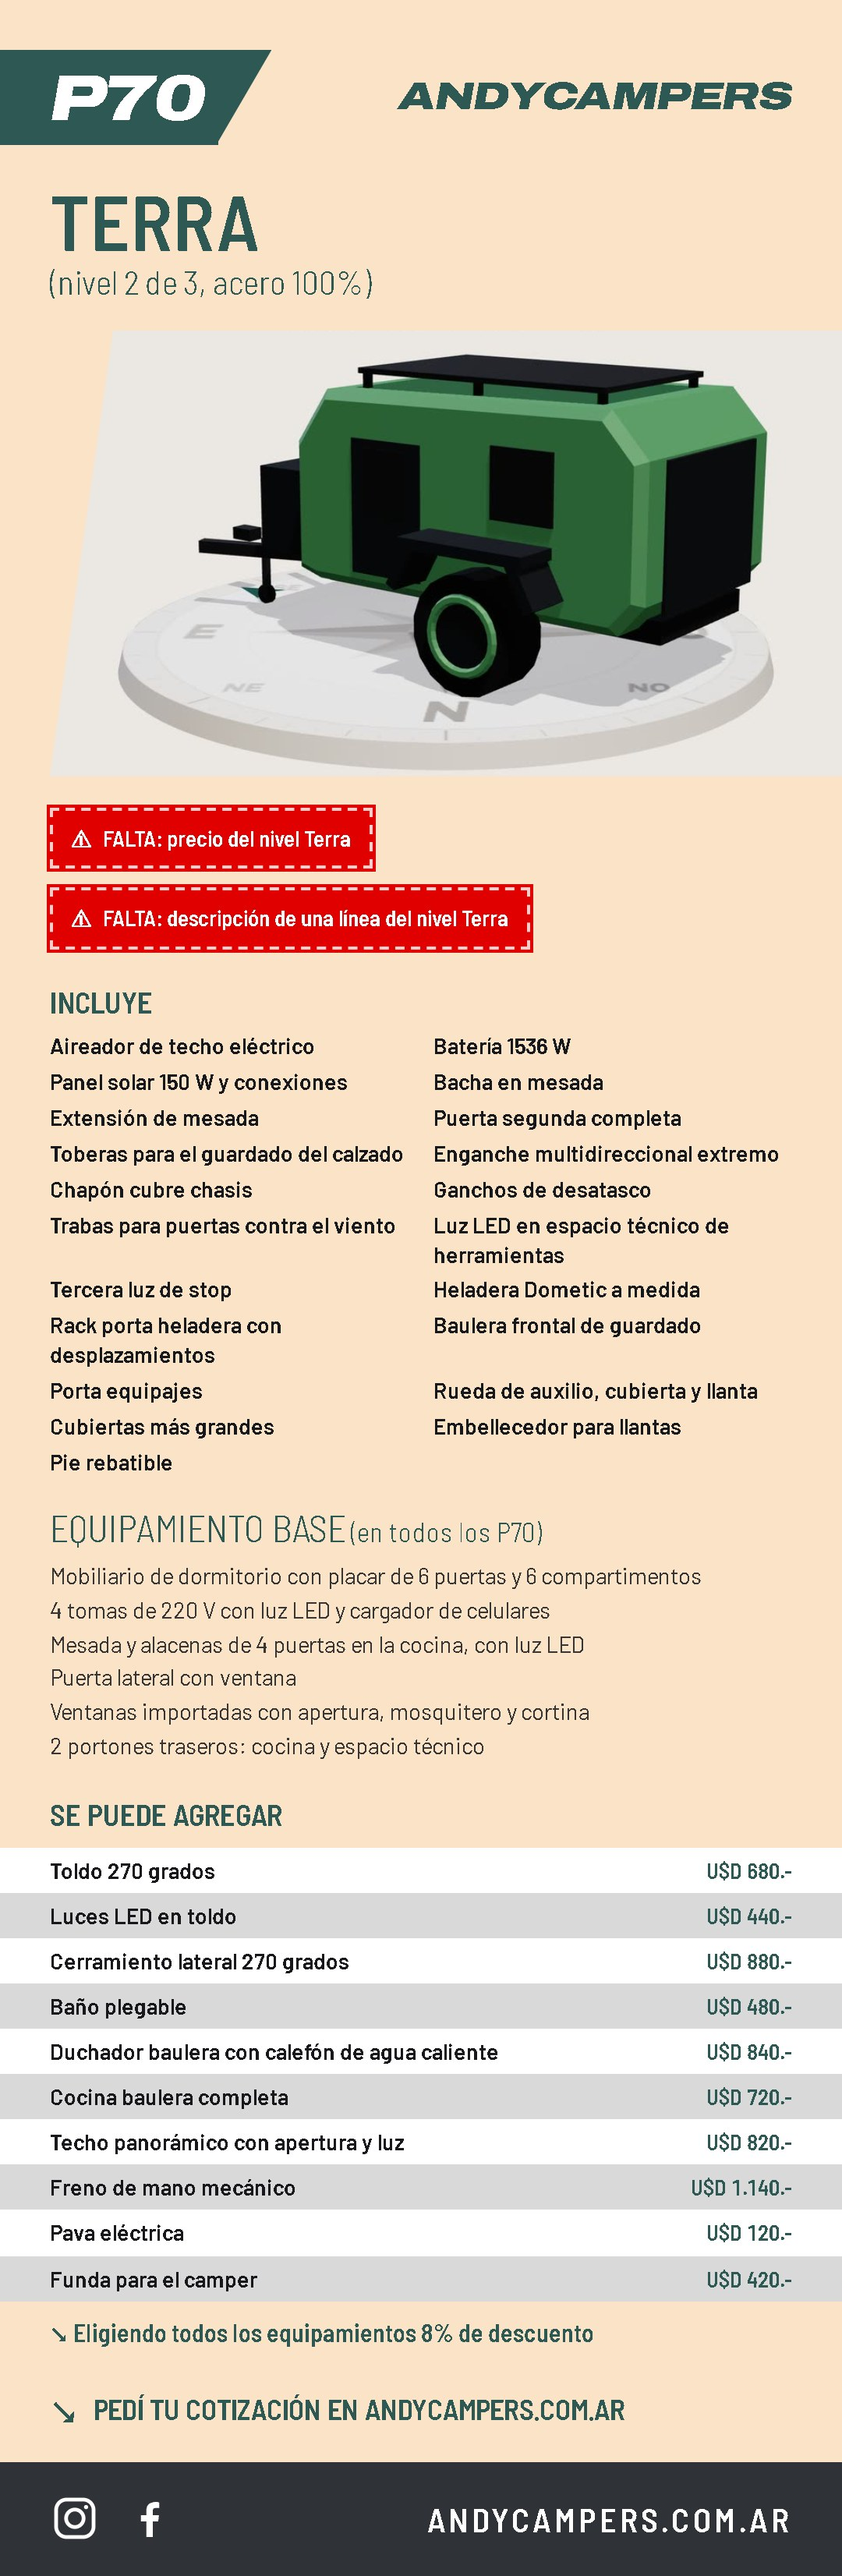
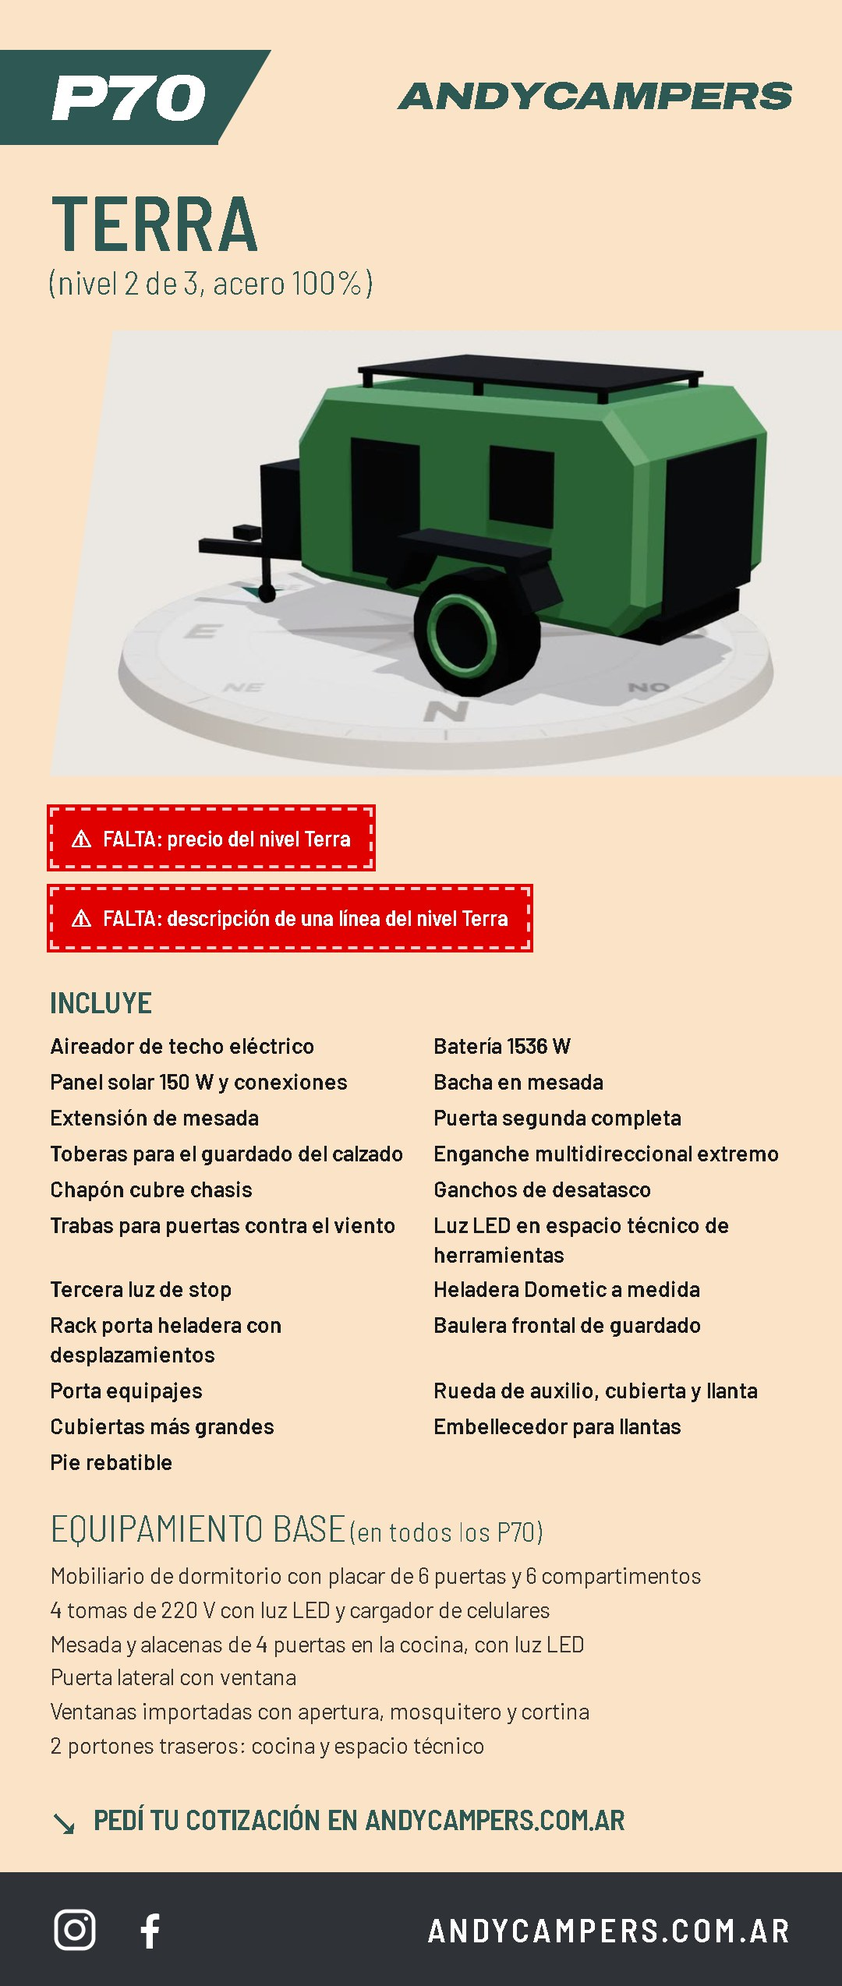
Cada equipamiento muestra solo lo que lleva, sin opcionales
Lo que no está tachado en los flyers marcados es lo que lleva cada nivel,
no son opcionales: Rumbo 13 ítems, Terra suma 8 y Cima lleva los 31.
Se sacan los precios por ítem, "Se puede agregar" y el 8% de descuento
del selector, los catálogos y las preguntas frecuentes.

diff --git a/config/p70.ts b/config/p70.ts
@@ -41,7 +41,7 @@ export interface Equipamiento {
   stats: Stats | null;
 }
 
-/** Los 3 niveles, de más base a más completo. Qué trae cada uno sale de `opcionales`. */
+/** Los 3 niveles, de más base a más completo. Qué trae cada uno sale de `itemsEquipamiento`. */
 export const equipamientos: Equipamiento[] = [
   {
     n: 1,
@@ -69,66 +69,62 @@ export const equipamientos: Equipamiento[] = [
   },
 ];
 
-/* ───────────────────────── Opcionales (flyers marcados por Andrés) ───────────────────────── */
+/* ───────────────────────── Qué lleva cada nivel (flyers marcados por Andrés) ───────────────────────── */
 
-export interface Opcional {
+export interface ItemEquipamiento {
   nombre: string;
   detalle?: string;
-  /** Precio en USD si no viene con el nivel elegido. */
-  precio: number;
-  /** Desde qué nivel viene incluido. En los niveles anteriores es un opcional con precio. */
+  /** Desde qué nivel viene: Rumbo (1), Terra (2) o solo Cima (3). */
   desde: 1 | 2 | 3;
 }
 
 /**
- * Los flyers de Rumbo y Terra tienen tachado lo que ese nivel NO trae (audio de
- * Andrés del 30/10) y Cima trae todo. Los textos con `desde: 3` están tapados
- * por la marca en los dos flyers: se confirman con el flyer limpio.
+ * Andrés marcó los flyers de opcionales con el nombre de cada nivel: lo que no
+ * está tachado es lo que ese nivel lleva (no son opcionales, no se venden aparte
+ * ni tienen precio). Cima lleva todo lo de los dos flyers. Los textos con
+ * `desde: 3` están tapados por la marca en los dos flyers: se confirman con el
+ * flyer limpio.
  */
-export const opcionales: Opcional[] = [
-  { nombre: "Aireador de techo eléctrico", detalle: "Extractor ventilador, muy recomendable. No es aire acondicionado pero es suficiente.", precio: 440, desde: 1 },
-  { nombre: "Batería 1536 W", detalle: "Con picos de 1800 W", precio: 1960, desde: 1 },
-  { nombre: "Panel solar 150 W y conexiones", detalle: "Recupera la batería en 2 horas del uso nocturno", precio: 620, desde: 1 },
-  { nombre: "Bacha en mesada", detalle: "Tanque de 100 litros, bomba de agua automática y entrada. Conexiones y chapones protectores.", precio: 730, desde: 1 },
-  { nombre: "Extensión de mesada", detalle: "Adaptador para usar el portón del espacio técnico como ampliación de la mesada de cocina", precio: 83, desde: 1 },
-  { nombre: "Puerta segunda completa", precio: 1120, desde: 1 },
-  { nombre: "Toberas para el guardado del calzado", precio: 540, desde: 1 },
-  { nombre: "Enganche multidireccional extremo", detalle: "Mayor seguridad", precio: 660, desde: 1 },
-  { nombre: "Chapón cubre chasis", precio: 235, desde: 1 },
-  { nombre: "Ganchos de desatasco", detalle: "x2 unidades", precio: 55, desde: 1 },
-  { nombre: "Trabas para puertas contra el viento", detalle: "x2 unidades", precio: 64, desde: 1 },
-  { nombre: "Luz LED en espacio técnico de herramientas", precio: 44, desde: 1 },
-  { nombre: "Tercera luz de stop", precio: 82, desde: 1 },
+export const itemsEquipamiento: ItemEquipamiento[] = [
+  { nombre: "Aireador de techo eléctrico", detalle: "Extractor ventilador, muy recomendable. No es aire acondicionado pero es suficiente.", desde: 1 },
+  { nombre: "Batería 1536 W", detalle: "Con picos de 1800 W", desde: 1 },
+  { nombre: "Panel solar 150 W y conexiones", detalle: "Recupera la batería en 2 horas del uso nocturno", desde: 1 },
+  { nombre: "Bacha en mesada", detalle: "Tanque de 100 litros, bomba de agua automática y entrada. Conexiones y chapones protectores.", desde: 1 },
+  { nombre: "Extensión de mesada", detalle: "Adaptador para usar el portón del espacio técnico como ampliación de la mesada de cocina", desde: 1 },
+  { nombre: "Puerta segunda completa", desde: 1 },
+  { nombre: "Toberas para el guardado del calzado", desde: 1 },
+  { nombre: "Enganche multidireccional extremo", detalle: "Mayor seguridad", desde: 1 },
+  { nombre: "Chapón cubre chasis", desde: 1 },
+  { nombre: "Ganchos de desatasco", detalle: "x2 unidades", desde: 1 },
+  { nombre: "Trabas para puertas contra el viento", detalle: "x2 unidades", desde: 1 },
+  { nombre: "Luz LED en espacio técnico de herramientas", desde: 1 },
+  { nombre: "Tercera luz de stop", desde: 1 },
 
-  { nombre: "Heladera Dometic a medida", precio: 1560, desde: 2 },
-  { nombre: "Rack porta heladera con desplazamientos", precio: 280, desde: 2 },
-  { nombre: "Baulera frontal de guardado", precio: 720, desde: 2 },
-  { nombre: "Porta equipajes", detalle: "Preparado para sujetar toldo y baño o poner bicicletas", precio: 520, desde: 2 },
-  { nombre: "Rueda de auxilio, cubierta y llanta", precio: 760, desde: 2 },
-  { nombre: "Cubiertas más grandes", detalle: "De 740 a 810 mm de diámetro", precio: 460, desde: 2 },
-  { nombre: "Embellecedor para llantas", detalle: "x2 unidades", precio: 95, desde: 2 },
-  { nombre: "Pie rebatible", detalle: "x2 unidades", precio: 180, desde: 2 },
+  { nombre: "Heladera Dometic a medida", desde: 2 },
+  { nombre: "Rack porta heladera con desplazamientos", desde: 2 },
+  { nombre: "Baulera frontal de guardado", desde: 2 },
+  { nombre: "Porta equipajes", detalle: "Preparado para sujetar toldo y baño o poner bicicletas", desde: 2 },
+  { nombre: "Rueda de auxilio, cubierta y llanta", desde: 2 },
+  { nombre: "Cubiertas más grandes", detalle: "De 740 a 810 mm de diámetro", desde: 2 },
+  { nombre: "Embellecedor para llantas", detalle: "x2 unidades", desde: 2 },
+  { nombre: "Pie rebatible", detalle: "x2 unidades", desde: 2 },
 
-  { nombre: "Toldo 270 grados", precio: 680, desde: 3 },
-  { nombre: "Luces LED en toldo", precio: 440, desde: 3 },
-  { nombre: "Cerramiento lateral 270 grados", precio: 880, desde: 3 },
-  { nombre: "Baño plegable", detalle: "Te podés dar una ducha y también ponerle el inodoro químico adentro", precio: 480, desde: 3 },
-  { nombre: "Duchador baulera con calefón de agua caliente", detalle: "Con porta garrafa", precio: 840, desde: 3 },
-  { nombre: "Cocina baulera completa", detalle: "Con porta garrafa", precio: 720, desde: 3 },
-  { nombre: "Techo panorámico con apertura y luz", detalle: "Le da amplitud, para ver las estrellas de noche", precio: 820, desde: 3 },
-  { nombre: "Freno de mano mecánico", precio: 1140, desde: 3 },
-  { nombre: "Pava eléctrica", precio: 120, desde: 3 },
-  { nombre: "Funda para el camper", precio: 420, desde: 3 },
+  { nombre: "Toldo 270 grados", desde: 3 },
+  { nombre: "Luces LED en toldo", desde: 3 },
+  { nombre: "Cerramiento lateral 270 grados", desde: 3 },
+  { nombre: "Baño plegable", detalle: "Te podés dar una ducha y también ponerle el inodoro químico adentro", desde: 3 },
+  { nombre: "Duchador baulera con calefón de agua caliente", detalle: "Con porta garrafa", desde: 3 },
+  { nombre: "Cocina baulera completa", detalle: "Con porta garrafa", desde: 3 },
+  { nombre: "Techo panorámico con apertura y luz", detalle: "Le da amplitud, para ver las estrellas de noche", desde: 3 },
+  { nombre: "Freno de mano mecánico", desde: 3 },
+  { nombre: "Pava eléctrica", desde: 3 },
+  { nombre: "Funda para el camper", desde: 3 },
 ];
 
 /** Todo lo que trae el nivel. */
-export const incluidos = (n: number) => opcionales.filter((o) => o.desde <= n);
+export const incluidos = (n: number) => itemsEquipamiento.filter((o) => o.desde <= n);
 /** Lo que este nivel suma al anterior. */
-export const nuevosEn = (n: number) => opcionales.filter((o) => o.desde === n);
-/** Lo que se le puede agregar al nivel, con su precio. */
-export const agregables = (n: number) => opcionales.filter((o) => o.desde > n);
-/** Texto del flyer de opcionales. */
-export const descuentoOpcionales = "Eligiendo todos los equipamientos 8% de descuento";
+export const nuevosEn = (n: number) => itemsEquipamiento.filter((o) => o.desde === n);
 
 /* ───────────────────────── Colores (5) ───────────────────────── */
 

diff --git a/components/selector/Selector.tsx b/components/selector/Selector.tsx
@@ -2,7 +2,7 @@
 
 import { useCallback, useEffect, useRef, useState } from "react";
 import { createPortal } from "react-dom";
-import { agregables, colores, descuentoOpcionales, equipamientos, hexColor, nombreColor, nombreEq, nuevosEn, videoSelector, type Equipamiento } from "@/config/p70";
+import { colores, equipamientos, hexColor, nombreColor, nombreEq, nuevosEn, videoSelector, type Equipamiento } from "@/config/p70";
 import { isPending } from "@/lib/pending";
 import { ciclarColor, ciclarEq, linkCompartir, setSeleccion, useSeleccion } from "@/lib/selection";
 import { track } from "@/lib/analytics";
@@ -318,7 +318,6 @@ function Detalle({ eq }: { eq: Equipamiento }) {
 
 function Incluye({ eq, className = "" }: { eq: Equipamiento; className?: string }) {
   const anterior = equipamientos.find((e) => e.n === eq.n - 1);
-  const extras = agregables(eq.n);
   return (
     <div className={className}>
       <p className="font-cond text-[1.15rem] font-semibold text-forest uppercase">{anterior ? `Todo lo de ${nombre(anterior)}, más` : "Incluye"}</p>
@@ -330,24 +329,6 @@ function Incluye({ eq, className = "" }: { eq: Equipamiento; className?: string 
           </li>
         ))}
       </ul>
-      {extras.length > 0 ? (
-        <details className="mt-5 border-t border-ink/15 pt-3">
-          <summary className="flex min-h-11 cursor-pointer items-center justify-between gap-3 font-cond text-[1.15rem] font-semibold text-forest uppercase">
-            Se puede agregar ({extras.length}) <IconChevron className="size-4 -rotate-90" />
-          </summary>
-          <ul className="mt-1">
-            {extras.map((o) => (
-              <li key={o.nombre} className="flex items-baseline justify-between gap-3 py-1 text-[0.95rem] leading-snug">
-                <span>{o.nombre}</span>
-                <span className="tabular shrink-0 font-cond font-semibold text-forest">{precioFlyer(o.precio)}</span>
-              </li>
-            ))}
-          </ul>
-          <p className="mt-2 font-cond text-[1rem] font-semibold text-forest">↘ {descuentoOpcionales}</p>
-        </details>
-      ) : (
-        <p className="mt-4 font-cond text-[1.05rem] font-semibold text-forest">Trae todos los opcionales.</p>
-      )}
       {eq.stats && equipamientos.every((e) => e.stats) && <Stats stats={eq.stats} />}
     </div>
   );

diff --git a/app/descargas/catalogo/[nivel]/page.tsx b/app/descargas/catalogo/[nivel]/page.tsx
@@ -1,6 +1,6 @@
 import type { Metadata } from "next";
 import { notFound } from "next/navigation";
-import { agregables, descuentoOpcionales, equipamientoDeSerie, equipamientos, incluidos, inicial, nombreEq, posterUrl, slugEq } from "@/config/p70";
+import { equipamientoDeSerie, equipamientos, incluidos, inicial, nombreEq, posterUrl, slugEq } from "@/config/p70";
 import { site } from "@/config/site";
 import { isPending } from "@/lib/pending";
 import { Missing } from "@/components/ui/Missing";
@@ -78,21 +78,6 @@ export default async function CatalogoNivel({ params }: { params: Promise<{ nive
           ))}
         </ul>
       </div>
-
-      {agregables(e.n).length > 0 && (
-        <div className="pt-5">
-          <p className="px-8 font-cond text-[1.2rem] font-semibold text-forest uppercase">Se puede agregar</p>
-          <ul className="mt-1.5">
-            {agregables(e.n).map((o, i) => (
-              <li key={o.nombre} className={`flex items-baseline justify-between gap-4 px-8 py-1 text-[0.88rem] font-semibold ${i % 2 ? "bg-[#d9d9d9]" : "bg-white"}`}>
-                <span>{o.nombre}</span>
-                <span className="tabular shrink-0 font-cond text-forest">U$D {usd.format(o.precio)}.-</span>
-              </li>
-            ))}
-          </ul>
-          <p className="px-8 pt-2 font-cond text-[1rem] font-semibold text-forest">↘ {descuentoOpcionales}</p>
-        </div>
-      )}
 
       <p className="mt-auto flex items-center gap-2.5 px-8 pt-6 pb-5 font-cond text-[1.15rem] font-semibold text-forest uppercase">
         <span aria-hidden className="text-[1.5rem] leading-none">↘</span> Pedí tu cotización en {site.dominio}

diff --git a/content/faq.ts b/content/faq.ts
@@ -1,6 +1,5 @@
 import { falta, type Maybe } from "@/lib/pending";
 import { site } from "@/config/site";
-import { descuentoOpcionales } from "@/config/p70";
 
 /**
  * Preguntas frecuentes del PDF que se descarga al pie de la página
@@ -38,8 +37,8 @@ export const faq: { q: string; a: Maybe<string> }[] = [
     a: "Las paredes llevan 80 mm de aislamiento térmico y la pintura exterior es antirrayones.",
   },
   {
-    q: "¿Hay opcionales?",
-    a: `Cada nivel trae los suyos y al resto se los podés agregar: en la página y en el catálogo de cada nivel está el listado con precios. Cima los trae todos. ${descuentoOpcionales}.`,
+    q: "¿Qué trae cada nivel?",
+    a: "Cada nivel lleva lo suyo: Terra tiene todo lo de Rumbo más heladera, porta equipajes, rueda de auxilio y otras cosas, y Cima lleva todo. En la página y en el catálogo de cada nivel está el listado completo.",
   },
   { q: "¿Cuánto tarda la fabricación y la entrega?", a: falta("plazos de fabricación y entrega") },
   { q: "¿Cuál es la forma de pago? ¿Hay financiación?", a: falta("forma de pago, seña y si hay financiación") },

diff --git a/docs/pendientes.md b/docs/pendientes.md
@@ -1,28 +1,28 @@
 # Datos pendientes · landing P70
 
-Generado con `npm run pendientes` el 1/11/2026. Cada ítem aparece en el sitio como un cartel rojo
+Generado con `npm run pendientes` el 3/11/2026. Cada ítem aparece en el sitio como un cartel rojo
 ("FALTA: …"). Se completa en el archivo indicado reemplazando `falta("…")` por el dato real.
 
 - [ ] **revisión legal de este texto antes de publicar** — `app/privacidad/page.tsx:26`
-- [ ] **nombre y código de los 5 colores** — `components/selector/Selector.tsx:433`
-- [ ] **nombre del color 1** — `config/p70.ts:149`
-- [ ] **hex del color 1** — `config/p70.ts:149`
-- [ ] **nombre del color 2** — `config/p70.ts:150`
-- [ ] **hex del color 2** — `config/p70.ts:150`
-- [ ] **nombre del color 3** — `config/p70.ts:151`
-- [ ] **hex del color 3** — `config/p70.ts:151`
-- [ ] **nombre del color 4** — `config/p70.ts:152`
-- [ ] **hex del color 4** — `config/p70.ts:152`
-- [ ] **nombre del color 5** — `config/p70.ts:153`
-- [ ] **hex del color 5** — `config/p70.ts:153`
-- [ ] **carga útil del P70** — `config/p70.ts:262`
-- [ ] **capacidad de personas** — `config/p70.ts:263`
-- [ ] **medidas exteriores del P70** — `config/p70.ts:271`
-- [ ] **medidas interiores del P70** — `config/p70.ts:272`
-- [ ] **medida de la cama** — `config/p70.ts:273`
-- [ ] **garantía del P70** — `config/p70.ts:279` (+2)
-- [ ] **plazos de fabricación y entrega** — `config/p70.ts:280` (+2)
-- [ ] **forma de pago y seña** — `config/p70.ts:281` (+1)
+- [ ] **nombre y código de los 5 colores** — `components/selector/Selector.tsx:414`
+- [ ] **nombre del color 1** — `config/p70.ts:145`
+- [ ] **hex del color 1** — `config/p70.ts:145`
+- [ ] **nombre del color 2** — `config/p70.ts:146`
+- [ ] **hex del color 2** — `config/p70.ts:146`
+- [ ] **nombre del color 3** — `config/p70.ts:147`
+- [ ] **hex del color 3** — `config/p70.ts:147`
+- [ ] **nombre del color 4** — `config/p70.ts:148`
+- [ ] **hex del color 4** — `config/p70.ts:148`
+- [ ] **nombre del color 5** — `config/p70.ts:149`
+- [ ] **hex del color 5** — `config/p70.ts:149`
+- [ ] **carga útil del P70** — `config/p70.ts:258`
+- [ ] **capacidad de personas** — `config/p70.ts:259`
+- [ ] **medidas exteriores del P70** — `config/p70.ts:267`
+- [ ] **medidas interiores del P70** — `config/p70.ts:268`
+- [ ] **medida de la cama** — `config/p70.ts:269`
+- [ ] **garantía del P70** — `config/p70.ts:275` (+2)
+- [ ] **plazos de fabricación y entrega** — `config/p70.ts:276` (+2)
+- [ ] **forma de pago y seña** — `config/p70.ts:277` (+1)
 - [ ] **precio del nivel Rumbo** — `config/p70.ts:50`
 - [ ] **descripción de una línea del nivel Rumbo** — `config/p70.ts:51`
 - [ ] **precio del nivel Terra** — `config/p70.ts:58`
@@ -33,4 +33,4 @@ Generado con `npm run pendientes` el 1/11/2026. Cada ítem aparece en el sitio c
 - [ ] **canal de YouTube (si tiene)** — `config/site.ts:35`
 - [ ] **logo en vector (SVG)** — `config/site.ts:44`
 - [ ] **si ofrece financiación y en qué condiciones** — `config/site.ts:49`
-- [ ] **forma de pago, seña y si hay financiación** — `content/faq.ts:45`
+- [ ] **forma de pago, seña y si hay financiación** — `content/faq.ts:44`
